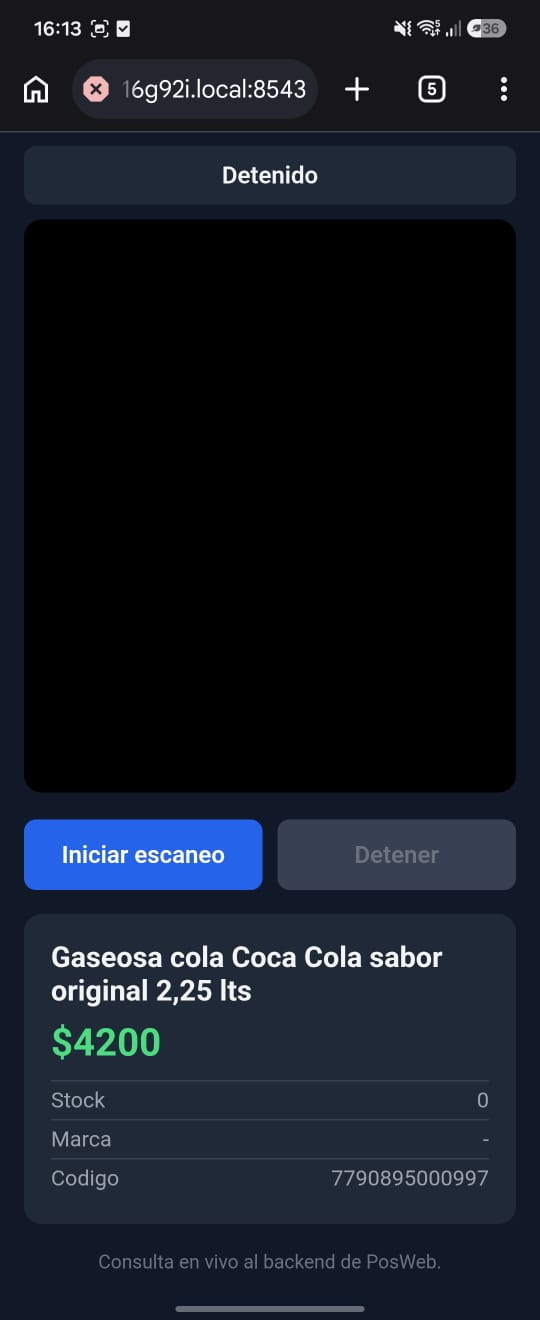
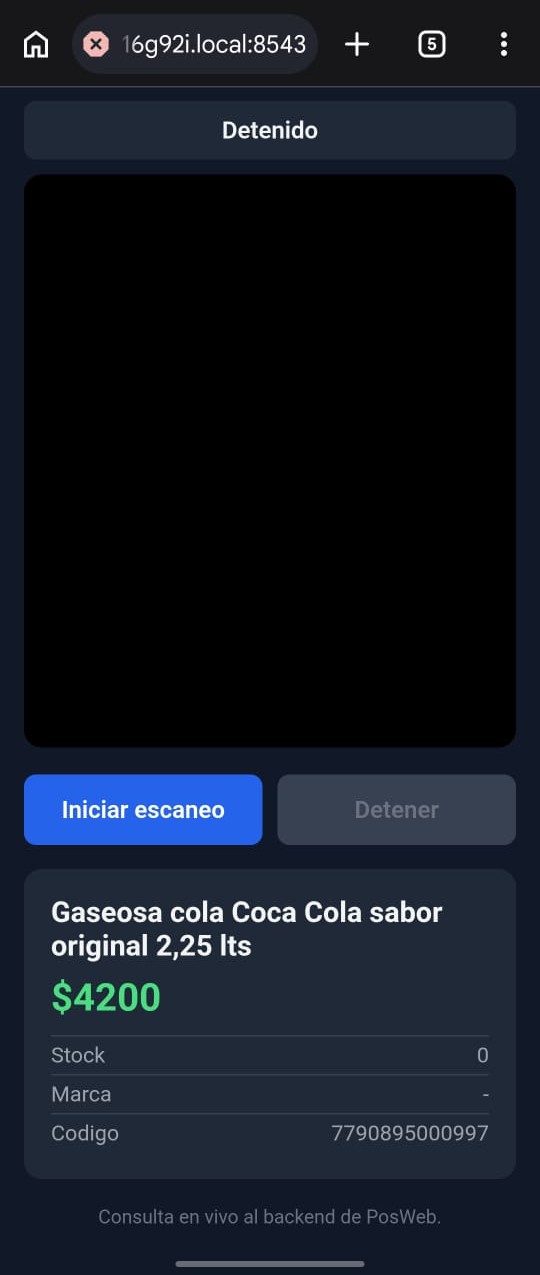
feat(ayuda): limitar altura de capturas y ajustar zoom del lightbox
- Miniaturas con max-h + object-contain para que las capturas verticales
  (complementos) no ocupen toda la pantalla; las horizontales mantienen
  ancho completo.
- Lightbox: el zoom base ahora ajusta la imagen a pantalla (max-h/max-w)
  y el zoom escala desde ahi con scroll.
- Reemplazada la captura de ConsultaProducto con la version editada.

diff --git a/frontend/src/pages/AyudaPage.tsx b/frontend/src/pages/AyudaPage.tsx
@@ -84,12 +84,12 @@ function Lightbox({ srcs, index, onClose }: { srcs: string[]; index: number; onC
         </div>
 
         {/* Imagen con scroll + zoom */}
-        <div className="flex-1 min-h-0 w-full overflow-auto rounded-xl bg-black/30 flex items-start justify-center p-3">
+        <div className="flex-1 min-h-0 w-full overflow-auto rounded-xl bg-black/30 flex items-center justify-center p-3">
           <img
             src={src}
             alt={`Captura ${idx + 1}`}
-            style={{ width: `${zoom * 100}%`, maxWidth: 'none' }}
-            className="rounded-lg object-contain"
+            style={{ transform: `scale(${zoom})`, transformOrigin: 'center' }}
+            className="max-h-full max-w-full rounded-lg object-contain"
           />
         </div>
       </div>
@@ -127,10 +127,10 @@ function DetalleItem({ item, onOpenImagen }: { item: AyudaEntrada; onOpenImagen:
           </p>
           {item.imagenes.map((src, i) => (
             <button key={i} type="button" onClick={() => onOpenImagen(i)}
-              className="block w-full text-left group relative overflow-hidden rounded-xl border border-gray-200 focus:outline-none focus-visible:ring-2 focus-visible:ring-[oklch(0.52_0.255_278)]"
-              aria-label={`Ampliar captura ${i + 1} de ${item.titulo}`}>
+              aria-label={`Ampliar captura ${i + 1} de ${item.titulo}`}
+              className="block w-full text-left group relative overflow-hidden rounded-xl border border-gray-200 focus:outline-none focus-visible:ring-2 focus-visible:ring-[oklch(0.52_0.255_278)]">
               <img src={src} alt={`Captura ${i + 1} de ${item.titulo}`}
-                className="w-full" />
+                className="w-full max-h-[560px] object-contain bg-slate-50" />
               <span className="absolute inset-0 bg-black/0 group-hover:bg-black/10 transition-colors flex items-center justify-center">
                 <span className="opacity-0 group-hover:opacity-100 transition-opacity bg-black/60 text-white text-[11px] font-semibold px-2.5 py-1 rounded-lg flex items-center gap-1">
                   <Maximize size={13} /> Ampliar
